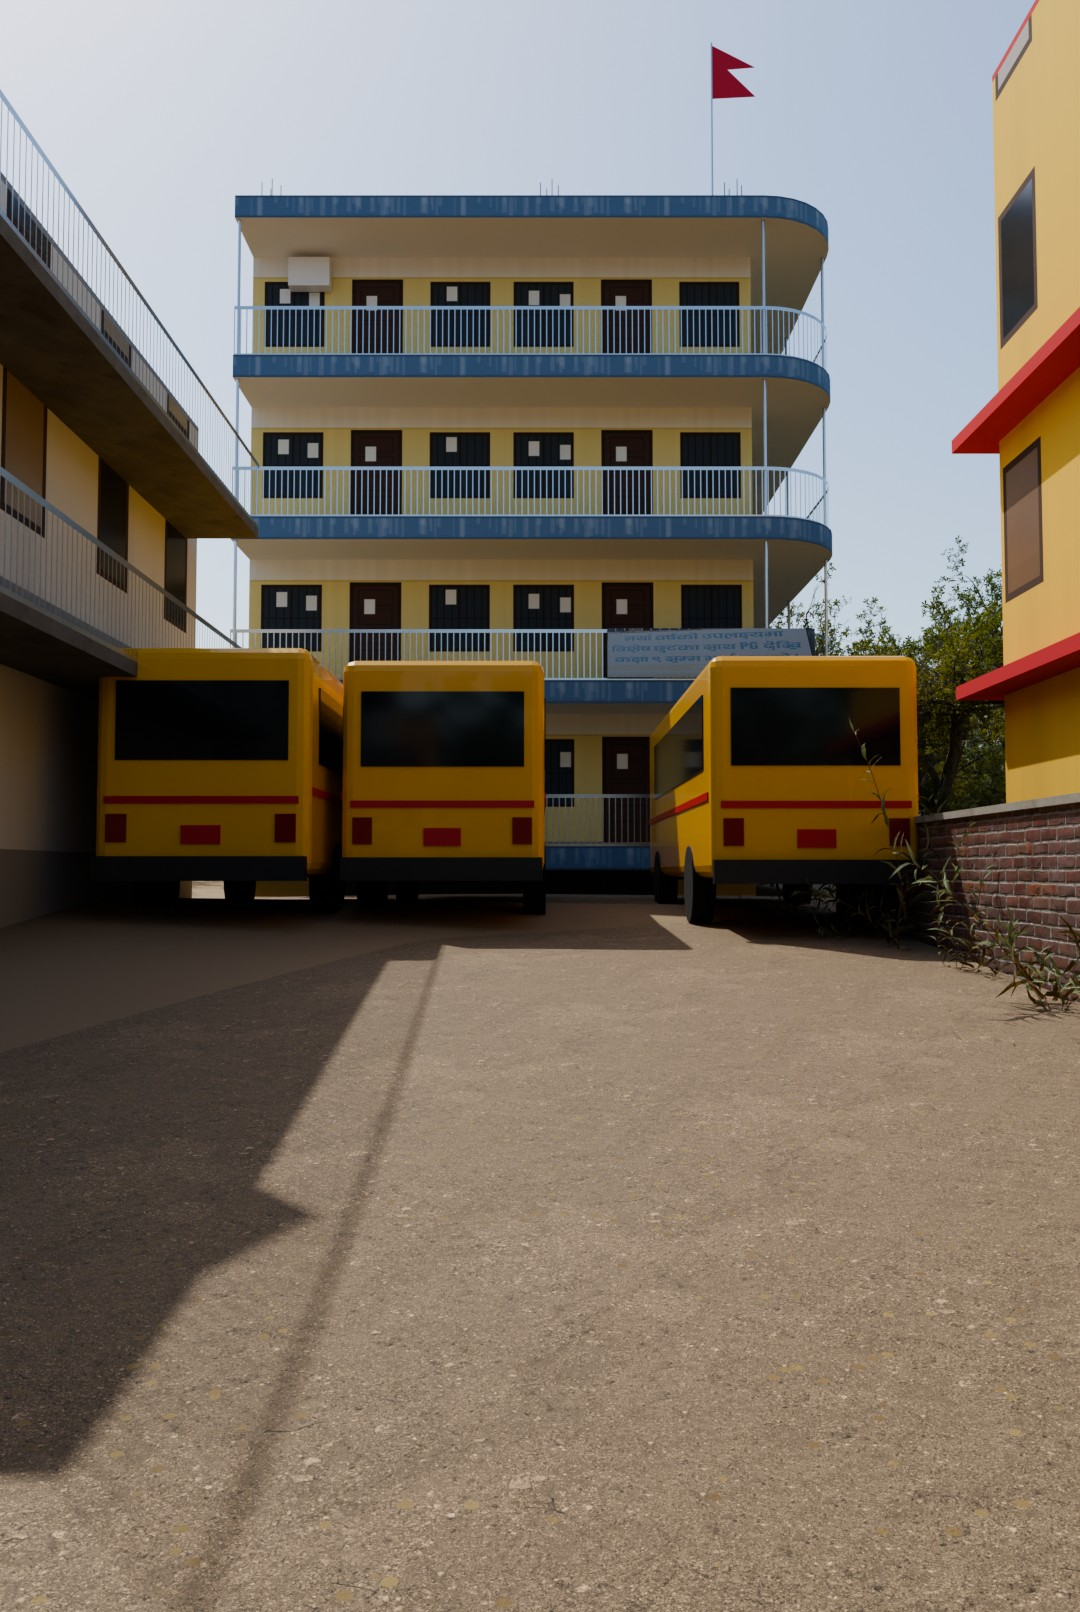
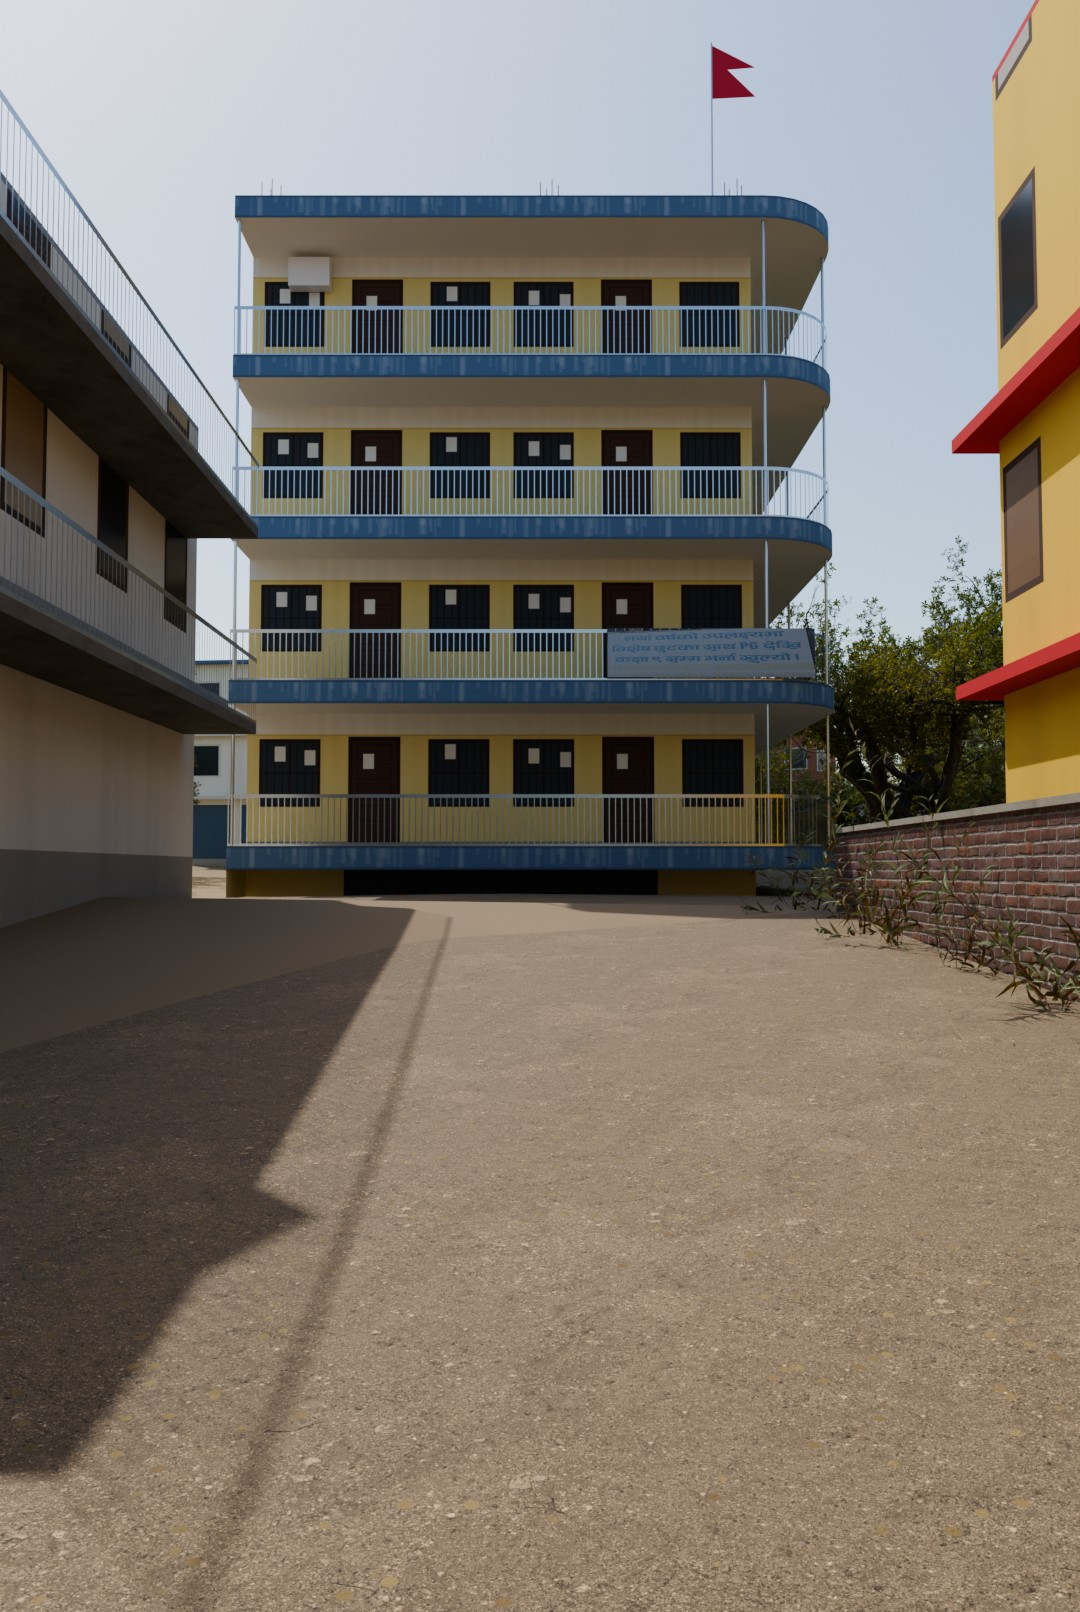
feat(website): the trees on the driveway's left, and no buses
The three slim trees at the driveway's mouth stand on its left, beside
where Street View shows a bus parked (in the driveway frame their leaves
hang in from the top left). The buses are left out of the views: they
come and go, and without them the school's ground floor shows. bus()
remains for a scene that wants them (SX_BUSES).

publish.sh rebuilds, renders, makes the depth maps and republishes the
home page's two images under a new version stamp in one step.

diff --git a/website/src/sections/Arrival.tsx b/website/src/sections/Arrival.tsx
@@ -10,8 +10,8 @@ import { arrive, pointer } from '../three/rig';
  * so it is the first thing on screen while the 3D scene loads behind it.
  */
 const VIEWS = [
-  { color: '/models/env/street_color_10112226.webp', depth: '/models/env/street_depth_10112226.png', focus: [0.5, 0.66] },
-  { color: '/models/env/driveway_color_10112226.webp', depth: '/models/env/driveway_depth_10112226.png', focus: [0.53, 0.62] },
+  { color: '/models/env/street_color_10112238.webp', depth: '/models/env/street_depth_10112238.png', focus: [0.5, 0.66] },
+  { color: '/models/env/driveway_color_10112238.webp', depth: '/models/env/driveway_depth_10112238.png', focus: [0.53, 0.62] },
 ] as const;
 
 const VERT = `attribute vec2 p; varying vec2 v; void main() { v = p * .5 + .5; gl_Position = vec4(p, 0., 1.); }`;

diff --git a/website/model/env/env_street.py b/website/model/env/env_street.py
@@ -312,10 +312,11 @@ def tree(name, src, s, t, scale, rot):
     o = bpy.data.objects.new(name, bpy.data.objects[src].data)
     o.location = W(s, t) + Vector((0, 0, -0.1)); o.scale = (scale,) * 3; o.rotation_euler = (0, 0, rot)
     C.objects.link(o); return o
-# three slim young trees at the mouth, their crowns run together (Street View)
-tree('GEO-mouth_tree_a', 'tree_small_02_LOD1', 4.6, 0.2, 1.45, 0.4)
-tree('GEO-mouth_tree_b', 'tree_small_02_LOD1', 5.4, -0.9, 1.6, 2.3)
-tree('GEO-mouth_tree_c', 'tree_small_02_LOD1', 6.6, -2.2, 1.4, 4.1)
+# three slim young trees on the left of the mouth, their crowns run together (Street View: beside where
+# the bus parks; the driveway frame: their leaves hang in from the top left)
+tree('GEO-mouth_tree_a', 'tree_small_02_LOD1', 3.8, 2.6, 1.45, 0.4)
+tree('GEO-mouth_tree_b', 'tree_small_02_LOD1', 4.9, 3.5, 1.6, 2.3)
+tree('GEO-mouth_tree_c', 'tree_small_02_LOD1', 6.0, 2.2, 1.4, 4.1)
 tree('GEO-tree_right', 'island_tree_02_LOD1', 3.5, -18.5, 2.6, 1.3)
 
 # --- the buses: block-outs at true size (Eicher Skyline: 7.6 x 2.3 x 2.9 m) --------------------------------------
@@ -374,9 +375,12 @@ def bus(name, s, t, length=7.6, width=2.3, facing_road=True):
     return root
 # 11 October 2026 (the client's photos): all three at the far end, facing the school; two together on the
 # left, a wide gap, one on the right. (Older Street View has one parked at the mouth.)
-bus('GEO-bus_end_a', 23.6, 4.6, facing_road=False)
-bus('GEO-bus_end_b', 24.4, 2.1, facing_road=False)
-bus('GEO-bus_end_c', 23.9, -2.0, facing_road=False)
+# The buses are left out of the website's views: they come and go, and the school is what the views
+# are for. bus() stays for a scene that wants them, e.g. bus('GEO-bus_end_a', 23.6, 4.6, facing_road=False).
+if globals().get('SX_BUSES'):
+    bus('GEO-bus_end_a', 23.6, 4.6, facing_road=False)
+    bus('GEO-bus_end_b', 24.4, 2.1, facing_road=False)
+    bus('GEO-bus_end_c', 23.9, -2.0, facing_road=False)
 
 # --- cameras ------------------------------------------------------------------------------------------------------
 def camera(name, s, t, h, lens, pitch=0.0, yaw=0.0):
